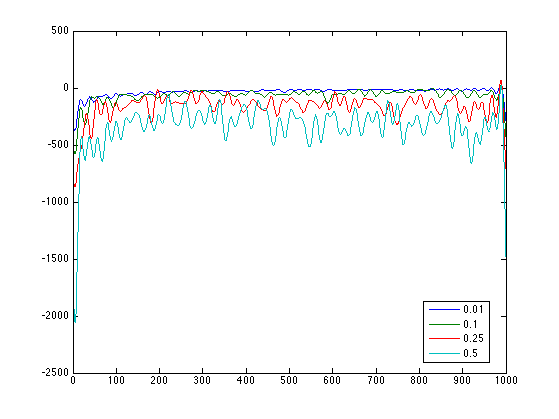
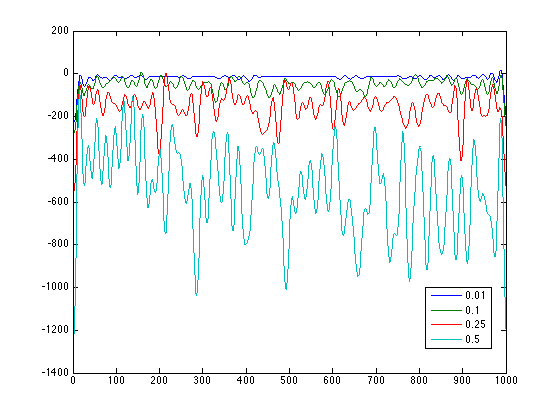
new data and finalized report

diff --git a/CliffWalking.java b/CliffWalking.java
@@ -275,7 +275,7 @@ public class CliffWalking{
 	}
 
 	public static void main(String[] args){		
-		CliffWalking cw = new CliffWalking(12, 4);
+		// CliffWalking cw = new CliffWalking(12, 4);
 		// cw.Sarsa(0.1, 0.01, 1.0, 1000);
 		// cw.Sarsa(0.1, 0.05, 1.0, 1000);
 		// cw.Sarsa(0.1, 0.1, 1.0, 1000);
@@ -299,21 +299,25 @@ public class CliffWalking{
 		// cw.QLearning(0.1, 0.25, 1.0, 1000);
 		// cw.QLearning(0.1, 0.5, 1.0, 1000);
 
-		// cw.QLearning(0.01, 0.05, 1.0, 1000);
-		// cw.QLearning(0.1, 0.05, 1.0, 1000);
-		// cw.QLearning(0.25, 0.05, 1.0, 1000);
-		// cw.QLearning(0.5, 0.05, 1.0, 1000);
+		// cw.QLearning(0.01, 0.5, 1.0, 1000);
+		// cw.QLearning(0.1, 0.5, 1.0, 1000);
+		// cw.QLearning(0.25, 0.5, 1.0, 1000);
+		// cw.QLearning(0.5, 0.5, 1.0, 1000);
 
-		// cw.QLearning(0.01, 0.05, 0.01, 1000);
-		// cw.QLearning(0.01, 0.05, 0.1, 1000);
-		// cw.QLearning(0.01, 0.05, 0.5, 1000);
-		// cw.QLearning(0.01, 0.05, 1.0, 1000);
+		// cw.QLearning(0.01, 0.5, 0.01, 1000);
+		// cw.QLearning(0.01, 0.5, 0.1, 1000);
+		// cw.QLearning(0.01, 0.5, 0.5, 1000);
+		// cw.QLearning(0.01, 0.5, 1.0, 1000);
 
-		HashMap<String, HashMap<String, Double>> qQL = cw.QLearning(0.01, 0.05, 1.0, 1000);
+		// CliffWalking cw = new CliffWalking(12, 4);
+		// CliffWalking cw = new CliffWalking(4, 6);		
+		CliffWalking cw = new CliffWalking(3, 6);
 		HashMap<String, HashMap<String, Double>> qS = cw.Sarsa(0.01, 0.5, 0.5, 1000);
+		HashMap<String, HashMap<String, Double>> qQL = cw.QLearning(0.01, 0.5, 1.0, 1000);		
 
-		cw.printPolicy(qQL);
 		cw.printPolicy(qS);
+		cw.printPolicy(qQL);
+		
 
 	}
 }

diff --git a/README.md b/README.md
@@ -27,20 +27,144 @@
 		<img src="fig/qlearning.png" width="500px">
 		<br>
 		<br>
-		
+		For each algorithm, we run the Cliff Walking process for a thousand espisodes and plot the learning curve as the reward obtained per episodes. We compare how different learning parameters affect the learning curve by experimenting a set of eta (exploration in soft-greedy), alpha (step size) and gamma (discount factor) and observing how the learning curves change. We then pick the best set of parameters of both Sarsa and Q-Learning to compete with each other. All the experiments so far are performed on the default 12x4 grid world. Finally, we visualize the optimal policy by both algorithms on various dimensions of the CliffWalking world.
 	</p>
 </div>
 
 <div>
 	<h3> Results </h3>
 	<p>
-		
+		For each of the figures below, the x axis is the number of episodes, and the y axis is the reward per episode. The left column is the original learning curve, while the right column is the smoothed curve (using FFT to remove higher frequency, see smooth.m for details.), except for the last row, in which the right column is the same curve in log(y) scale. Note that the smoothed figures usually have <a href="http://en.wikipedia.org/wiki/Gibbs_phenomenon"> Gibbs phenomenon</a> on the curve edges.
+	</p>
+	<p>
+		<b>Various alpha on Sarsa, with eta fixed at 0.1, gamma fixed at 1.0:</b>
+		<br>
+		<img src="fig/sarsa_alpha_original.png" width="300px">
+		<img src="fig/sarsa_alpha_smoothed.png" width="300px">
+		<br>
+		We choose alpha=0.5 as the best learning curve and advance to the next round.
+	</p>
+	<p>
+		<b>Various eta on Sarsa, with alpha fixed at 0.5, gamma fixed at 1.0:</b>
+
+		<br>
+		<img src="fig/sarsa_eta_original.png" width="300px">
+		<img src="fig/sarsa_eta_smoothed.png" width="300px">
+		<br>
+		We choose eta=0.01 as the best learning curve and advance to the next round.
+	</p>
+	<p>
+		<b>Various gamma on Sarsa, with eta fixed at 0.01, alpha fixed at 0.5:</b>
+		<br>
+		<img src="fig/sarsa_gamma_original.png" width="300px">	
+		<br>
+		We choose gamma=0.5 as the best learning curve. In conclusion, our best parameters for Sarsa is alpha=0.5, gamma=0.5 and eta=0.01
+	</p>
+	<p>
+		<b>Various alpha on Q-Learning, with eta fixed at 0.1, gamma fixed at 1.0:</b>
+
+		<br>
+		<img src="fig/qlearning_alpha_original.png" width="300px">
+		<img src="fig/qlearning_alpha_smoothed.png" width="300px">
+		<br>
+		We choose alpha=0.5 as the best learning curve and advance to the next round.
+
+	</p>
+	<p>
+		<b>Various eta on Q-Learning, with alpha fixed at 0.5, gamma fixed at 1.0:</b>
+		<br>
+		<img src="fig/qlearning_eta_original.png" width="300px">
+		<img src="fig/qlearning_eta_smoothed.png" width="300px">
+		<br>
+		We choose eta=0.01 as the best learning curve and advance to the next round.
+	</p>
+	<p>
+		<b>Various gamma on Q-Learning, with eta fixed at 0.01, alpha fixed at 0.5:</b>
+		<br>
+		<img src="fig/qlearning_gamma_original.png" width="300px">
+		<img src="fig/qlearning_gamma_smoothed.png" width="300px">
+		<br>
+		We choose gamma=0.5 as the best learning curve.
+		In conclusion, our best parameters for Q-Learning is alpha=0.5, gamma=1.0 and eta=0.01
+	</p>
+	<p>
+		<b>Now, we compare our best Sarsa with the best Q-Learning:</b>
+		<br>
+		<img src="fig/qlearning_vs_sarsa_original.png" width="300px">
+		<img src="fig/qlearning_vs_sarsa_semilogy.png" width="300px">
+		<br>
+		We can see that Q-Learning actually outperforms Sarsa in this case, as opposed to the other way around covered in the textbook. This is mainly due to the small exploration parameter eta=0.01 we choose, compared to the larger eta=0.1 used by the textbook, in which case the more conservative Sarsa outperforms Q-Learning.
+	</p>
+	<p>
+
+		Next, we illustrate the optimal policy obtained by Sarsa and Q-Learning in various dimensions (u:up, d:down, r:right, l:left):
+		<pre>
+12x4
+Sarsa
+.____________.
+|            |
+|rrrrrrrrrrrd|
+|u          d|
+|u           |
+.____________.
+Q-Learning
+.____________.
+|            |
+|            |
+|rrrrrrrrrrrd|
+|u           |
+.____________.
+
+
+4x6
+Sarsa
+.____.
+|    |
+|    |
+|    |
+|rrd |
+|u rd|
+|u   |
+.____.
+Q-Learning
+.____.
+|    |
+|    |
+|    |
+|    |
+|rrrd|
+|u   |
+.____.
+
+
+3x6
+Sarsa
+.___.
+|   |
+|   |
+|   |
+|rd |
+|urd|
+|u  |
+.___.
+Q-Learning
+.___.
+|   |
+|   |
+|   |
+|   |
+|rrd|
+|u  |
+.___.
+
+		</pre>
+		As expected, Sarsa is generally more conservative in that it always goes up at least one level than the policy of Q-Learning. However, instead of going all the way to the top row, Sarsa only goes two levels above the cliff, which is most likely due to our small eta (lower chance of risky exploration.)
 	</p>
 </div>
 
 <div>
 	<h3> Conclusion </h3>
 	<p>
-		
+		In this work, we recreate the CliffWalking task as described in Example 6.6 of the textbook, compare various learning parameters and find the optimal setup of Sarsa and Q-Learning, and illustrate the optimal policy found by both algorithms in various dimensions. We find that with a small enough eta (0.01), Q-Learning actually outperforms Sarsa in the CliffWalking process.
 	</p>
 </div>
